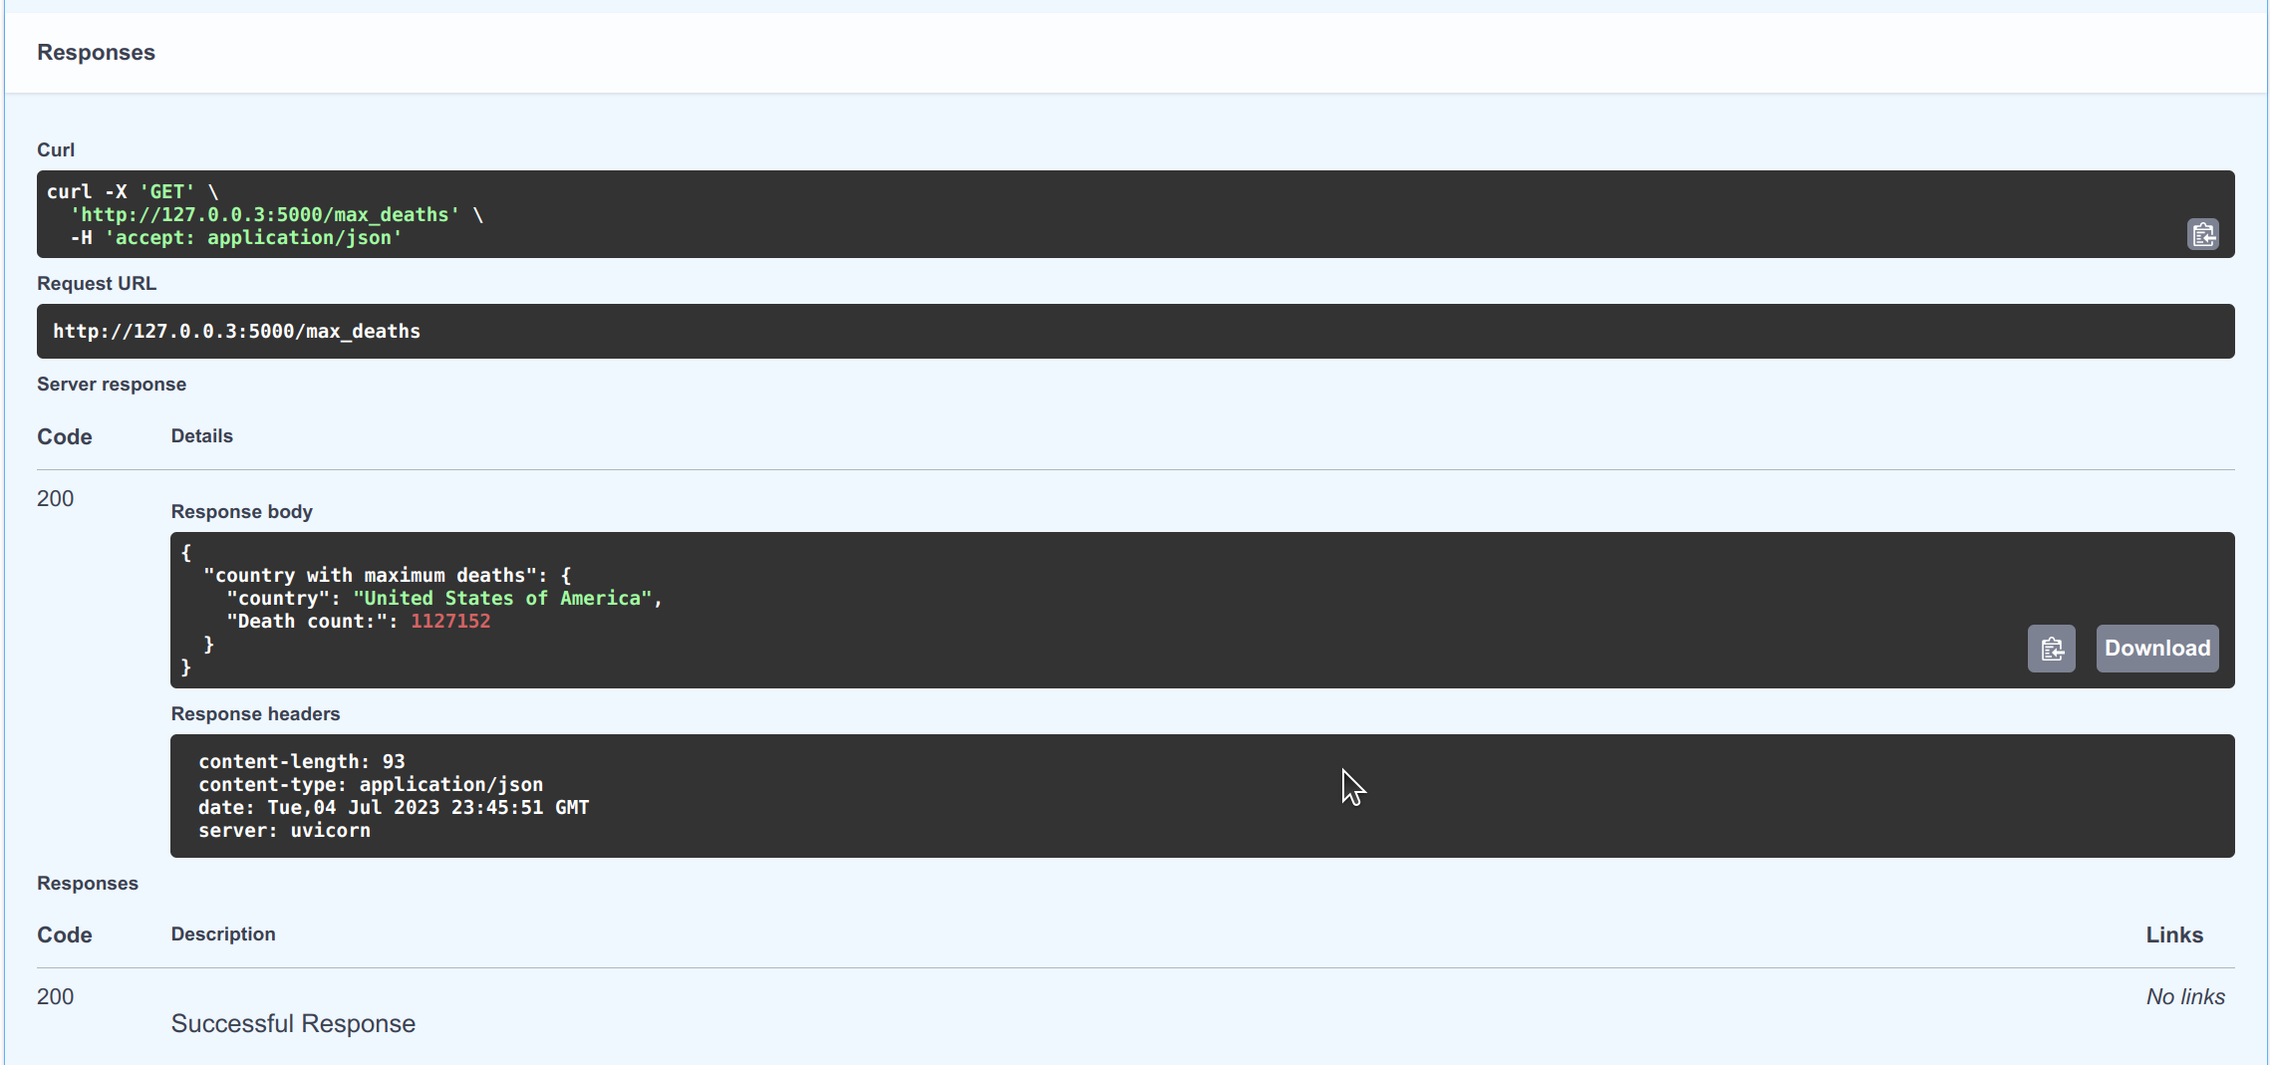
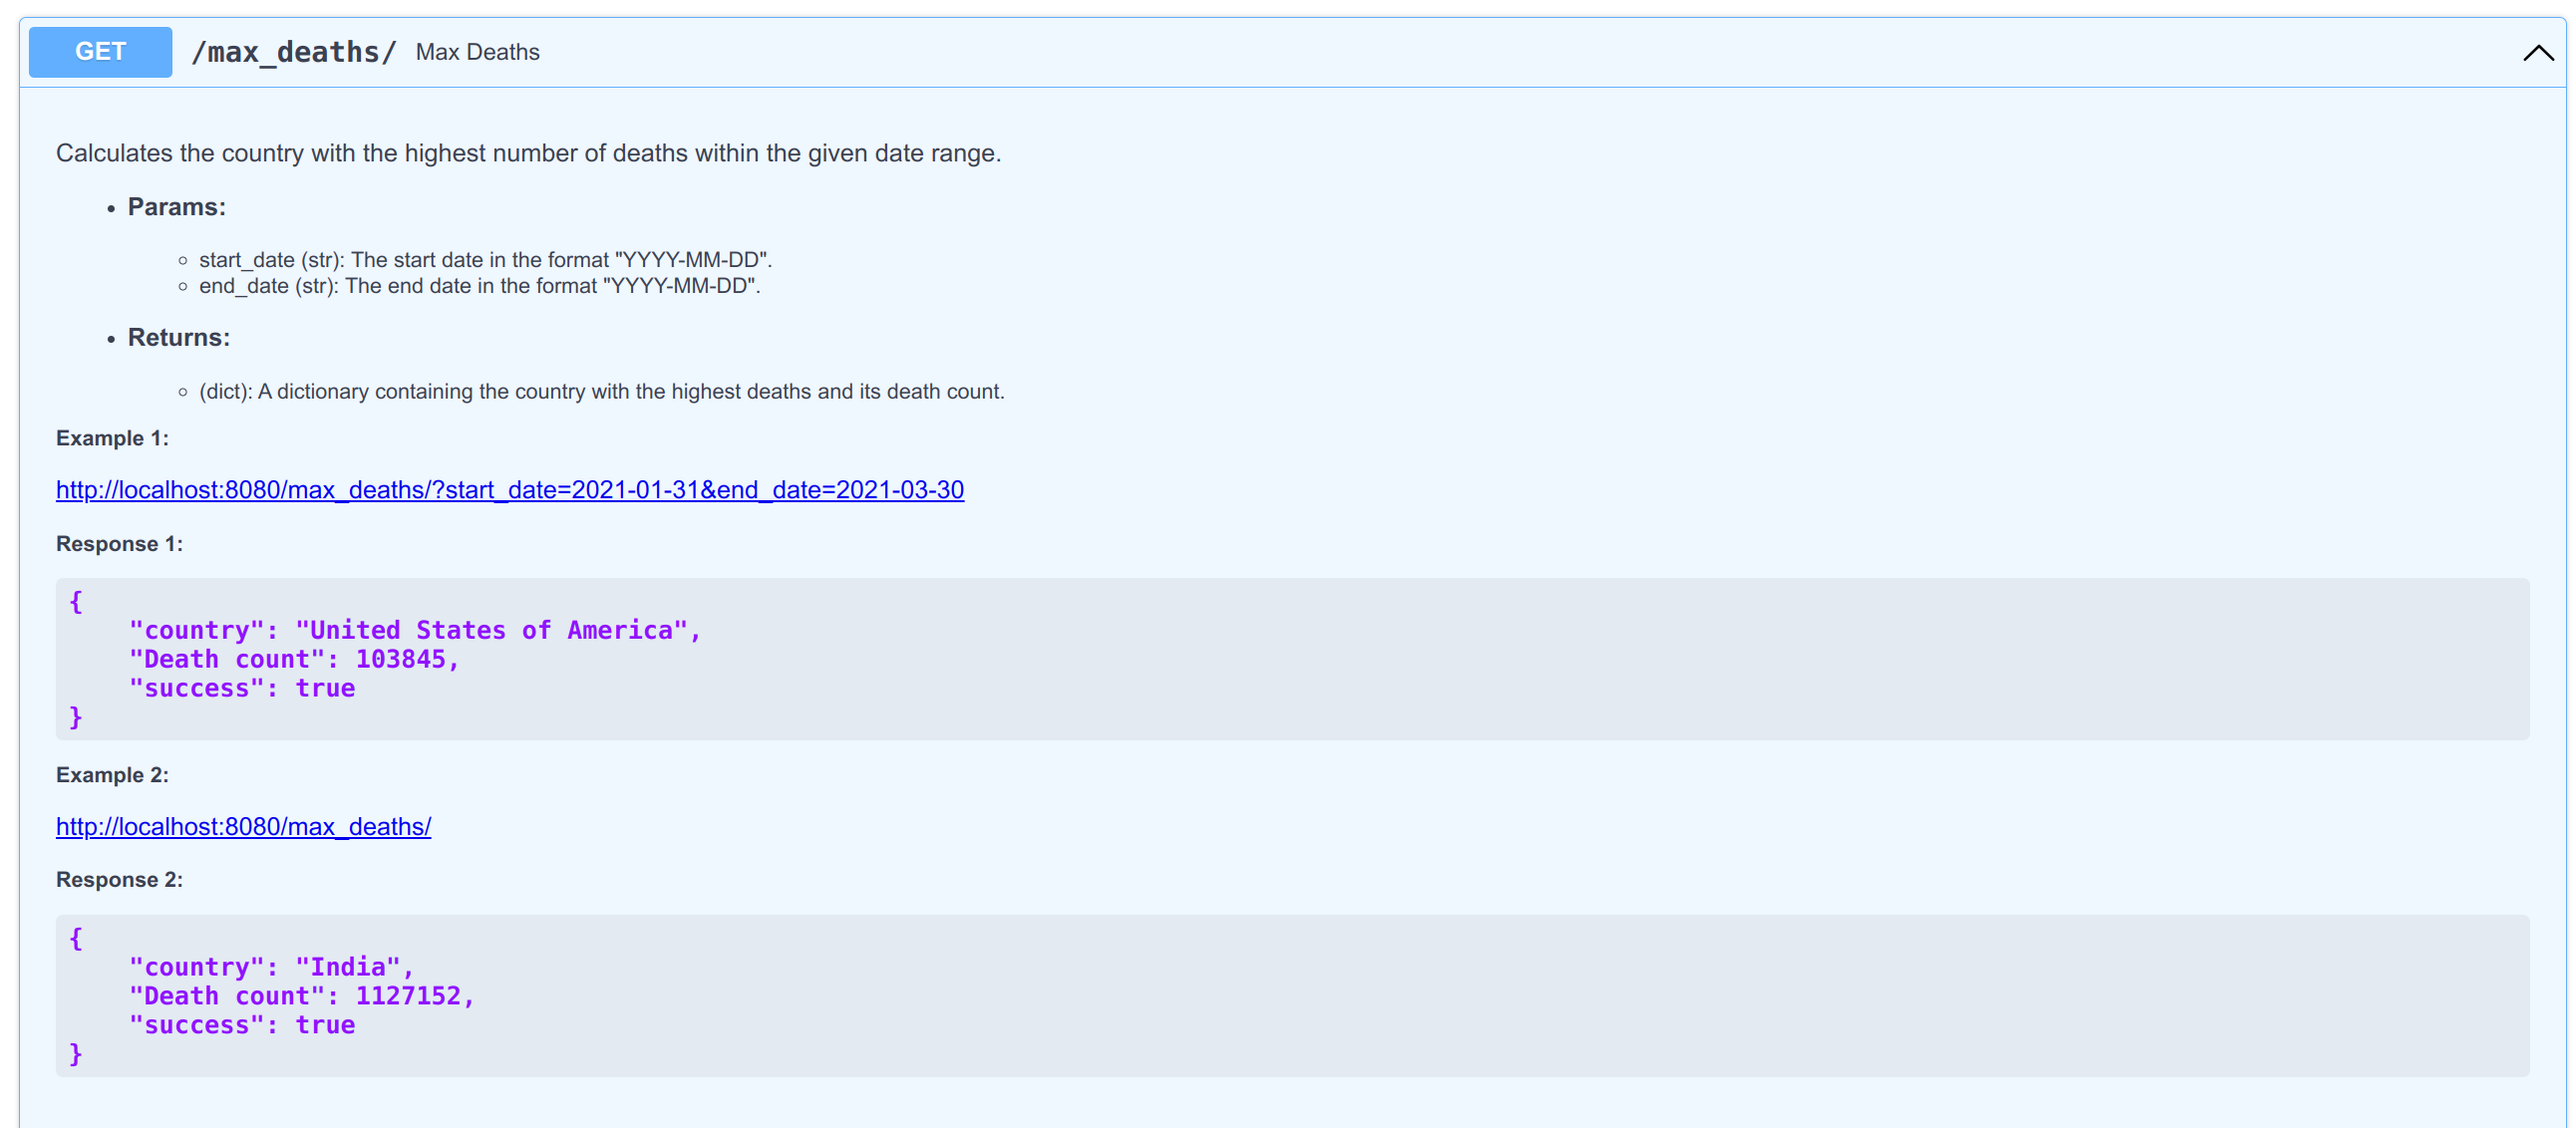
changes

diff --git a/Assignments/A08/main.py b/Assignments/A08/main.py
@@ -37,7 +37,7 @@ def getUniqueCountries():
         print("An error occurred:", str(e))
         return []
 
-    return list(countries.keys())
+    return {"countries": list(countries.keys()), "success": True}
 
 
 
@@ -52,8 +52,7 @@ def getUniqueRegions():
     except Exception as e:
         print("An error occurred:", str(e))
         return []
-
-    return list(regions.keys())
+    return {"regions": list(regions.keys()),"success": True}
 
 
 def getTotalDeaths(country, region, year):
@@ -66,31 +65,31 @@ def getTotalDeaths(country, region, year):
         for row in db:
             if row[2] == country and row[0][:4] == str(year):
                sumOfDeaths += int(row[6])
-        return {"country_year_deaths":sumOfDeaths}
+        return {"total_deaths":sumOfDeaths,"success": True}
     if region and year:
         for row in db:
             if row[3] == region and row[0][:4] == str(year):
                 sumOfDeaths += int(row[6])
-        return {"country_year_deaths":sumOfDeaths}
+        return {"total_deaths":sumOfDeaths,"success": True}
 
     if country:
         for row in db:
             if row[2] == country:
                 sumOfDeaths += int(row[6])
-        return {"total_deaths":sumOfDeaths}
+        return {"total_deaths":sumOfDeaths,"success": True}
 
     if region:
         for row in db:
             if row[3] == region:
                 sumOfDeaths += int(row[6])
-        return {"total_deaths":sumOfDeaths}
+        return {"total_deaths":sumOfDeaths, "success": True}
 
     for row in db:
         sumOfDeaths += int(row[6])
-    return {"total_deaths":sumOfDeaths}
+    return {"total_deaths":sumOfDeaths,"success": True}
    except Exception as e:
     print("An error occurred:", str(e))
-    return {"error": "An error occurred while processing the request."}
+    return {"error": "An error occurred while processing the request.","success": False}
 
 
 def getMaxDeaths(start_date, end_date):
@@ -120,7 +119,7 @@ def getMaxDeaths(start_date, end_date):
                     maxDeaths = deaths
                     max_deaths_country = country
 
-            return {"country": max_deaths_country, "Death count:":maxDeaths}   
+            return {"country": max_deaths_country, "Death count:":maxDeaths, "success": True}   
         
         for country in countries.keys():
             for row in db:
@@ -130,7 +129,7 @@ def getMaxDeaths(start_date, end_date):
                 maxDeaths = deaths
                 maxDeathsCountry = country
             deaths = 0
-        return {"country": maxDeathsCountry, "Death count:":maxDeaths}
+        return {"country": maxDeathsCountry, "Death count:":maxDeaths, "success": True}
 
     except Exception as e:
         print("An error occurred:", str(e))
@@ -164,7 +163,7 @@ def getMinDeaths(start_date, end_date):
                     minDeaths = deaths
                     min_deaths_country = country
 
-            return {"country": min_deaths_country, "Death count:":minDeaths}   
+            return {"country": min_deaths_country, "Death count:":minDeaths, "success": True}   
         
         for country in countries.keys():
             deaths = 0  # Reset deaths for each country
@@ -176,7 +175,7 @@ def getMinDeaths(start_date, end_date):
                 minDeaths = deaths
                 min_deaths_country = country
 
-        return {"country_with_min_deaths": min_deaths_country, "Death count:":minDeaths}
+        return {"country": min_deaths_country, "Death count:":minDeaths, "success": True}
     
     except Exception as e:
         print("An error occurred:", str(e))
@@ -192,7 +191,7 @@ def getAvgDeaths():
         for row in db:
             sumOfDeaths = sumOfDeaths + int(row[6])
         avg_deaths = float(sumOfDeaths /len(db))
-        return{avg_deaths}
+        return{"Average deaths" : avg_deaths, "success": True}
     except Exception as e:
         print("An error occurred:", str(e))
         return {"error": "An error occurred while processing the request."}
@@ -228,10 +227,10 @@ async def countries():
 
     """
     try:
-        return {"countries": getUniqueCountries()}
+        return getUniqueCountries()
     except Exception as e:
         print("An error occurred:", str(e))
-        return {"error": "An error occurred while processing the request."}
+        return {"error": "An error occurred while processing the request.", "success": False}
 
 
 @app.get("/regions/")
@@ -255,13 +254,13 @@ async def regions():
 
     """
     try:
-        return {"Regions": getUniqueRegions()}
+        return getUniqueRegions()
     except Exception as e:
         print("An error occurred:", str(e))
-        return {"error": "An error occurred while processing the request."}
+        return {"error": "An error occurred while processing the request.","success": False}
 
 
-@app.get("/deaths/")
+@app.get("/deaths")
 async def get_deaths(country: str = None, region: str = None, year: int = None):
     """
     Calculates the total deaths based on the provided filters (country, region, year).
@@ -281,13 +280,8 @@ async def get_deaths(country: str = None, region: str = None, year: int = None):
     #### Response 1:
 
         {
-            "total_deaths": 1000,
+            "total_deaths": 703399,
             "success": true,
-            "params": {
-                "country": "Brazil",
-                "region": null,
-                "year": null
-            }
         }
 
     #### Example 2:
@@ -297,13 +291,8 @@ async def get_deaths(country: str = None, region: str = None, year: int = None):
     #### Response 2:
 
         {
-            "country_year_deaths": 42,
+            "total_deaths": 2246,
             "success": true,
-            "params": {
-                "country": null,
-                "region": "EMRO",
-                "year": 2023
-            }
         }
 
     #### Example 3:
@@ -313,24 +302,19 @@ async def get_deaths(country: str = None, region: str = None, year: int = None):
     #### Response 3:
 
         {
-            "total_deaths": 5000,
+            "total_deaths": 6945714,
             "success": true,
-            "params": {
-                "country": null,
-                "region": null,
-                "year": null
-            }
         }
 
     """
     try:
-        return {"Number of deaths": getTotalDeaths(country, region, year)}
+        return getTotalDeaths(country, region, year)
     except Exception as e:
         print("An error occurred:", str(e))
-        return {"error": "An error occurred while processing the request."}
+        return {"error": "An error occurred while processing the request.","success": False}
     
     
-@app.get("/max_deaths/")
+@app.get("/max_deaths")
 async def max_deaths(start_date: str = None, end_date: str = None):
     """
     Calculates the country with the highest number of deaths within the given date range.
@@ -344,13 +328,13 @@ async def max_deaths(start_date: str = None, end_date: str = None):
 
     #### Example 1:
 
-    [http://localhost:8080/max_deaths/?start_date=2021-01-01&end_date=2021-12-31](http://localhost:8080/max_deaths/?start_date=2021-01-01&end_date=2021-12-31)
+    [http://localhost:8080/max_deaths/?start_date=2021-01-31&end_date=2021-03-30](http://localhost:8080/max_deaths/?start_date=2021-01-31&end_date=2021-03-30)
 
     #### Response 1:
 
         {
-            "country": "Brazil",
-            "Death count": 5000,
+            "country": "United States of America",
+            "Death count": 103845,
             "success": true
         }
 
@@ -362,19 +346,19 @@ async def max_deaths(start_date: str = None, end_date: str = None):
 
         {
             "country": "India",
-            "Death count": 7000,
+            "Death count": 1127152,
             "success": true
         }
 
     """
     try:
-        return{"country with maximum deaths":getMaxDeaths(start_date, end_date)}
+        return{getMaxDeaths(start_date, end_date)}
     except Exception as e:
         print("An error occurred:", str(e))
         return {"error": "An error occurred while processing the request."}
     
 
-@app.get("/min_deaths/")
+@app.get("/min_deaths")
 async def min_deaths(start_date: str = None, end_date: str = None):
 
     """
@@ -389,36 +373,37 @@ async def min_deaths(start_date: str = None, end_date: str = None):
 
     #### Example 1:
 
-    [http://localhost:8080/min_deaths/?start_date=2021-01-01&end_date=2021-12-31](http://localhost:8080/min_deaths/?start_date=2021-01-01&end_date=2021-12-31)
+    [http://localhost:8080/min_deaths/?start_date=2021-01-31&end_date=2021-04-30](http://localhost:8080/min_deaths/?start_date=2021-01-31&end_date=2021-04-30)
 
     #### Response 1:
 
+
         {
-            "country": "India",
-            "Death count": 1000,
+            "country": "American Samoa",
+            "Death count:": 0,
             "success": true
         }
-
+    
     #### Example 2:
 
     [http://localhost:8080/min_deaths/](http://localhost:8080/min_deaths/)
 
     #### Response 2:
 
+    
         {
-            "country": "Brazil",
-            "Death count": 2000,
-            "success": true
+            "country": "Democratic People's Republic of Korea",
+            "Death count:": 0
         }
 
     """
     try:
-        return{"country with min deaths":getMinDeaths(start_date, end_date)}
+        return{getMinDeaths(start_date, end_date)}
     except Exception as e:
         print("An error occurred:", str(e))
-        return {"error": "An error occurred while processing the request."}
+        return {"error": "An error occurred while processing the request.", "success": False}
 
-@app.get("/avg_deaths/")
+@app.get("/avg_deaths")
 async def avg_deaths():
     """
     Calculates the average number of deaths across all countries.
@@ -432,18 +417,19 @@ async def avg_deaths():
 
     #### Response:
 
-        {
-            "average_deaths": 1000,
-            "success": true
-        }
+    {
+    
+        "Average deaths": 23.149139120523127
+
+    }
 
     """
     try:
-        return{"Average deaths":getAvgDeaths()}
+        return getAvgDeaths()
     except Exception as e:
         print("An error occurred:", str(e))
-        return {"error": "An error occurred while processing the request."}
+        return {"error": "An error occurred while processing the request.", "success": False}
 
 
 if __name__ == "__main__":
-    uvicorn.run("main:app", host="127.0.0.1", port=8000, log_level="debug", reload=True) 
+    uvicorn.run("main:app", host="127.0.0.2", port=8000, log_level="debug", reload=True) 
